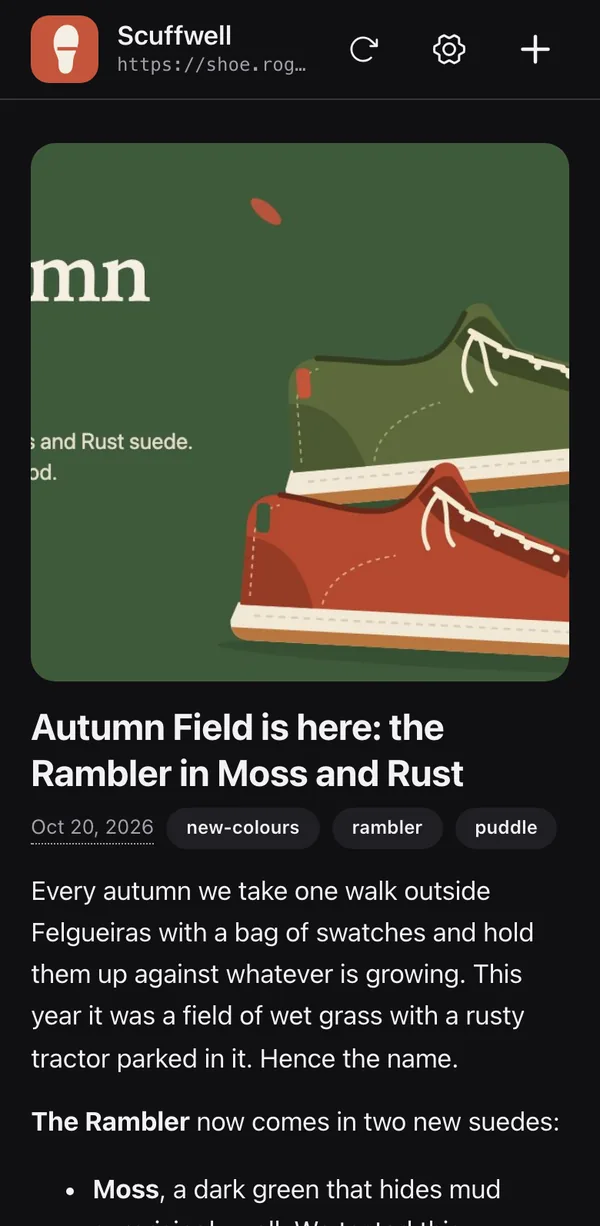
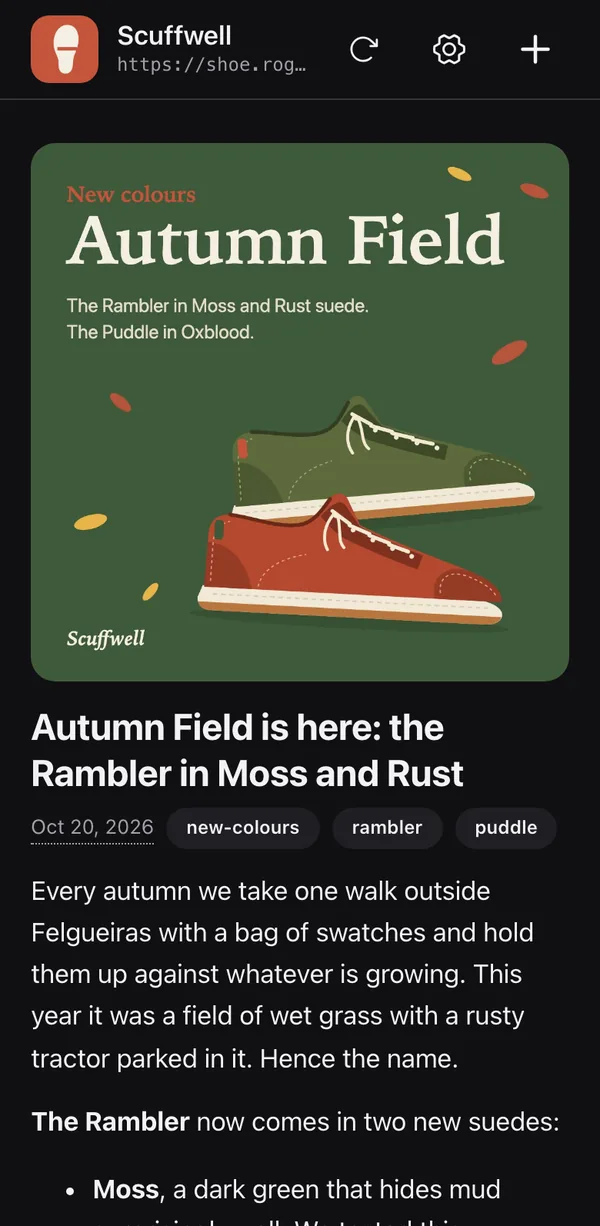
fix(site): recapture the app with square post images, reset the showcase as one change
The phone captures still showed the old 1200x630 post images, which the
app crops square, so the feed read "...mn" instead of "Autumn Field".
The feed and forgery screens are recaptured from the real app paired with
a Scuffwell repo signed from the current square images; the forgery
recreation now carries a date and tag instead of a sender domain.

The showcase's reset flipped the verdict back to "Shown" while the post
was still missing from the small phone. The title, verdict and feed now
fade out, swap while hidden and fade back in together.

diff --git a/apps/site/src/styles.css b/apps/site/src/styles.css
@@ -821,7 +821,7 @@ a:hover {
   grid-template-rows: 1fr;
   transition:
     grid-template-rows 700ms var(--ease),
-    opacity 400ms var(--ease) 500ms;
+    opacity 400ms var(--ease);
 }
 
 .check[data-check-state="hidden"] .mini-post {
@@ -878,6 +878,19 @@ a:hover {
   color: var(--app-ink);
   font-size: calc(12 * var(--u));
   font-weight: 600;
+}
+
+/* The loop's reset: verdict, title and feed fade out, swap while hidden, fade back in together. */
+.verdict-word,
+.verdict-line,
+.check-edit,
+.mini-rest {
+  transition: opacity 400ms var(--ease);
+}
+
+.check.is-resetting :is(.verdict-word, .verdict-line, .check-edit, .mini-post, .mini-rest) {
+  opacity: 0;
+  transition: opacity 300ms var(--ease);
 }
 
 @media (max-width: 900px) {

diff --git a/apps/site/src/signature-check.ts b/apps/site/src/signature-check.ts
@@ -65,6 +65,7 @@ const parts = (check: HTMLElement) => {
 
 const reset = (check: HTMLElement, isSigned: IsSigned) => {
   const { cursor, edit } = parts(check)
+  check.classList.remove('is-resetting')
   cursor.classList.remove('is-visible')
   edit.classList.remove('is-selected', 'is-typing')
   setTitlePart(check, ORIGINAL, isSigned)
@@ -103,6 +104,10 @@ const playLoop = async (check: HTMLElement, isSigned: IsSigned, signal: AbortSig
     cursor.classList.remove('is-visible')
     moveTo(rest(), 900)
     await sleep(4200, signal)
+    check.classList.add('is-resetting')
+    await sleep(350, signal)
+    setTitlePart(check, ORIGINAL, isSigned)
+    await sleep(60, signal)
   }
 }
 

diff --git a/apps/site/DESIGN.md b/apps/site/DESIGN.md
@@ -203,7 +203,7 @@ Three 4:5 cards on the dark band, each a generated frosted object (hardware devi
 
 ## Motion
 
-Two authored moments. The story: the phone's screen change and the step copy fading in as each step reaches the middle of the viewport. The signature check: a calm loop (about 10 seconds) of pointer, selection, typing, verdict flip, the post fading and collapsing out of the feed, a pause and a reset; it plays only while the card is at least half on screen and the tab is visible, and starts over from the signed state. Under `prefers-reduced-motion: reduce` there are no transitions and no smooth scrolling, and the signature check shows a static pair instead: the signed post ("Shown") above the edited one ("Not shown"). Without JavaScript all step copy is visible and the phone shows the first state.
+Two authored moments. The story: the phone's screen change and the step copy fading in as each step reaches the middle of the viewport. The signature check: a calm loop (about 10 seconds) of pointer, selection, typing, verdict flip, the post fading and collapsing out of the feed, a pause, and a reset in which the title, verdict and feed fade out and return together; it plays only while the card is at least half on screen and the tab is visible, and starts over from the signed state. Under `prefers-reduced-motion: reduce` there are no transitions and no smooth scrolling, and the signature check shows a static pair instead: the signed post ("Shown") above the edited one ("Not shown"). Without JavaScript all step copy is visible and the phone shows the first state.
 
 ## Do's and Don'ts
 
